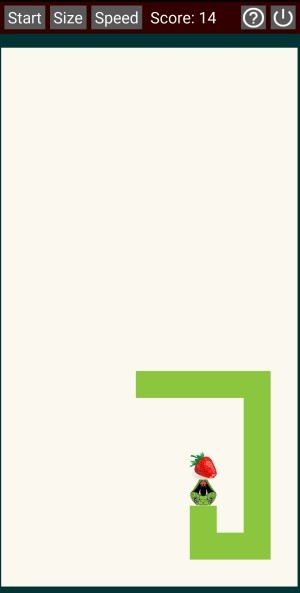
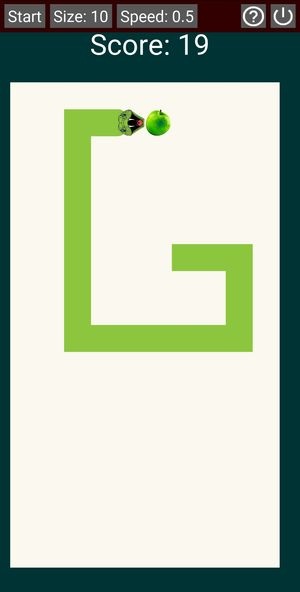
Deployed 0bb9650 with MkDocs version: 1.1.2

diff --git a/games/snake/index.html b/games/snake/index.html
@@ -137,10 +137,10 @@
 <p>It is divided in two areas:</p>
 <ul>
 <li>
-<p><em>top row</em>: it shows a toolbar with some buttons that will allow you different functions. Here you can see as well the current score of the game.</p>
+<p><em>top row</em>: it shows a toolbar with some buttons that will allow you different functions.</p>
 </li>
 <li>
-<p><em>playing ground</em>: this is where the snake will run.</p>
+<p><em>playing ground</em>: this is where the snake will run. Here you can see as well the current score of the game, which is the number of fruits you have eaten.</p>
 </li>
 </ul>
 <h2 id="buttons-in-toolbar">Buttons in toolbar</h2>
@@ -150,16 +150,16 @@
 <p><strong>Start</strong>: to start a new game. It will reset the score, and remove the snake and food. It will create a new snake with the head only, and spawn a new food.</p>
 </li>
 <li>
-<p><strong>Size</strong>: (not yet implemented). To change the size of the head and food. They can be larger or smaller. At each click it will switch to the next size. You can cycle through a number of pre-defined sizes.</p>
+<p><strong>Size</strong>: to change the size of the head and food. They can be larger or smaller. At each click it will switch to the next size. You can cycle through a number of pre-defined sizes: 5, 10, 15, 20, 25. This is the number of squares that has the shortest side of the window. So the higher the number, the smaller the square will be, and hence the smaller the snake parts and food.</p>
 </li>
 <li>
-<p><strong>Speed</strong>: (not yet implemented). To change the speed of the snake. At each click it will switch to the next speed. You can cycle through a number of pre-defined speeds.</p>
+<p><strong>Speed</strong>: to change the speed of the snake. At each click it will switch to the next speed factor, varying from: 0.5, 0.8, 1, 1.5, 2, 3. The game starts with a factor of 1 by default. The factor will be dividing the interval between updates of the game. Therefore, the higher the factor the smaller is the interval between updates, producing a higher speed.</p>
 </li>
 <li>
-<p><strong>Help</strong>: open a webpage with the instructions on how to play the game (this manual you are reading).</p>
+<p><img alt="Help button" src="../../img/snake_btn_help.png" title="Help button" />: open a webpage with the instructions on how to play the game (this manual you are reading).</p>
 </li>
 <li>
-<p><strong>Exit</strong>: exit the app.</p>
+<p><img alt="Exit button" src="../../img/snake_btn_power.png" title="Exit button" />: exit the app.</p>
 </li>
 </ul>
 <h2 id="credits">Credits</h2>

diff --git a/index.html b/index.html
@@ -180,5 +180,5 @@
 
 <!--
 MkDocs version : 1.1.2
-Build Date UTC : 2021-03-27 20:56:57.861423+00:00
+Build Date UTC : 2021-03-28 20:20:22.567834+00:00
 -->
